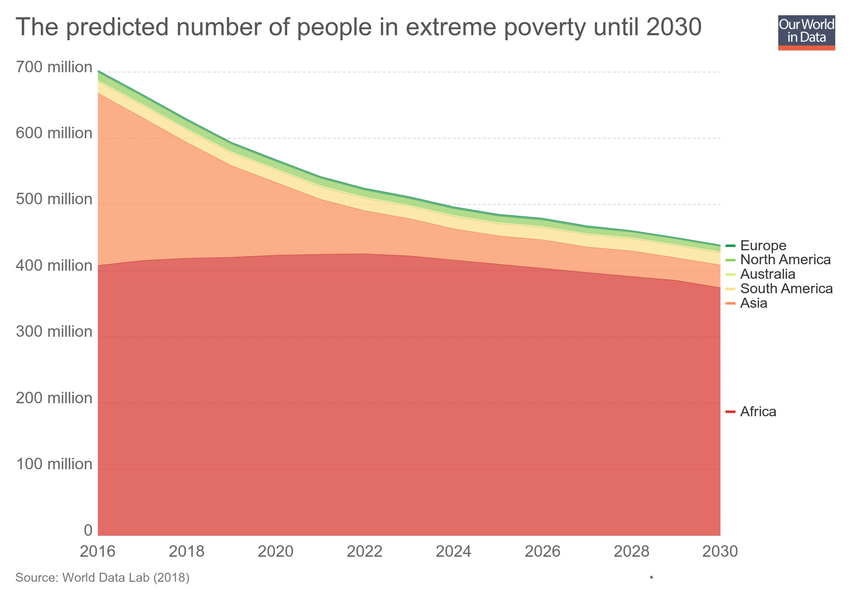
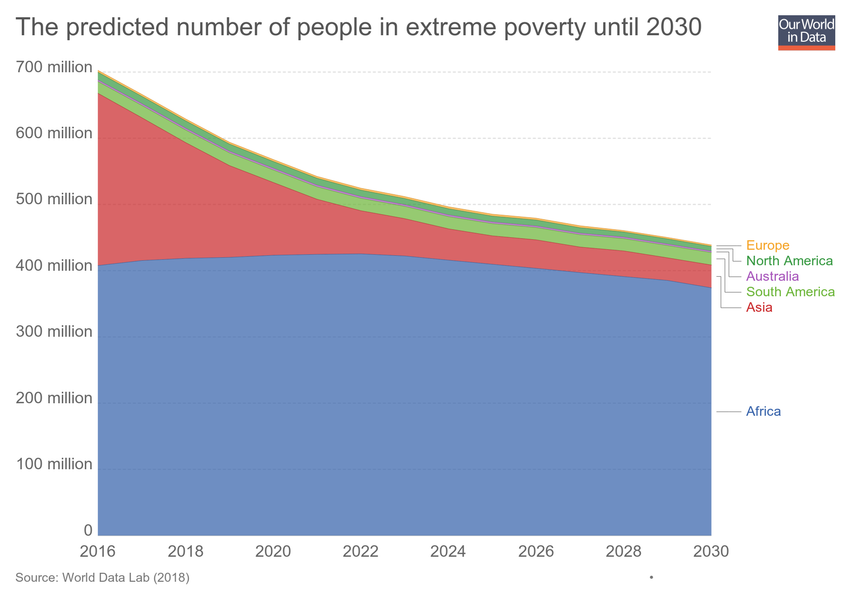
Updating chart the-predicted-number-of-people-in-extreme-poverty-until-2030

diff --git a/grapher/the-predicted-number-of-people-in-extreme-poverty-until-2030.html b/grapher/the-predicted-number-of-people-in-extreme-poverty-until-2030.html
@@ -1,4 +1,4 @@
-<!doctype html><html><head><meta name="viewport" content="width=device-width, initial-scale=1" /><title>The predicted number of people in extreme poverty until 2030 - Our World in Data</title><meta name="description" content="An interactive visualization from Our World in Data." /><link rel="canonical" href="https://ourworldindata.org/grapher/the-predicted-number-of-people-in-extreme-poverty-until-2030" /><meta property="fb:app_id" content="1149943818390250" /><meta property="og:url" content="https://ourworldindata.org/grapher/the-predicted-number-of-people-in-extreme-poverty-until-2030" /><meta property="og:title" content="The predicted number of people in extreme poverty until 2030" /><meta property="og:description" content="An interactive visualization from Our World in Data." /><meta property="og:image" content="https://ourworldindata.org/grapher/exports/the-predicted-number-of-people-in-extreme-poverty-until-2030.png?v=1" /><meta property="og:image:width" content="850" /><meta property="og:image:height" content="600" /><meta property="og:site_name" content="Our World in Data" /><meta name="twitter:card" content="summary_large_image" /><meta name="twitter:site" content="@OurWorldInData" /><meta name="twitter:creator" content="@OurWorldInData" /><meta name="twitter:title" content="The predicted number of people in extreme poverty until 2030" /><meta name="twitter:description" content="An interactive visualization from Our World in Data." /><meta name="twitter:image" content="https://ourworldindata.org/grapher/exports/the-predicted-number-of-people-in-extreme-poverty-until-2030.png?v=1" /><style>
+<!doctype html><html><head><meta name="viewport" content="width=device-width, initial-scale=1" /><title>The predicted number of people in extreme poverty until 2030 - Our World in Data</title><meta name="description" content="An interactive visualization from Our World in Data." /><link rel="canonical" href="https://ourworldindata.org/grapher/the-predicted-number-of-people-in-extreme-poverty-until-2030" /><meta property="fb:app_id" content="1149943818390250" /><meta property="og:url" content="https://ourworldindata.org/grapher/the-predicted-number-of-people-in-extreme-poverty-until-2030" /><meta property="og:title" content="The predicted number of people in extreme poverty until 2030" /><meta property="og:description" content="An interactive visualization from Our World in Data." /><meta property="og:image" content="https://ourworldindata.org/grapher/exports/the-predicted-number-of-people-in-extreme-poverty-until-2030.png?v=2" /><meta property="og:image:width" content="850" /><meta property="og:image:height" content="600" /><meta property="og:site_name" content="Our World in Data" /><meta name="twitter:card" content="summary_large_image" /><meta name="twitter:site" content="@OurWorldInData" /><meta name="twitter:creator" content="@OurWorldInData" /><meta name="twitter:title" content="The predicted number of people in extreme poverty until 2030" /><meta name="twitter:description" content="An interactive visualization from Our World in Data." /><meta name="twitter:image" content="https://ourworldindata.org/grapher/exports/the-predicted-number-of-people-in-extreme-poverty-until-2030.png?v=2" /><style>
         html, body {
             height: 100%;
             margin: 0;
@@ -20,8 +20,8 @@
         }
     </style><noscript><style>
                     figure { display: none !important; }
-                </style></noscript><link rel="stylesheet" href="https://ourworldindata.org/grapher/assets/commons.bundle.dcbbe53805c487d5e57617b10ac73a8a.css" /><link rel="preload" href="/grapher/data/variables/66298.json?v=1" as="fetch" crossorigin /></head><body class="singleChart"><figure data-grapher-src="/grapher/the-predicted-number-of-people-in-extreme-poverty-until-2030"></figure><noscript id="fallback"><img src="/grapher/exports/the-predicted-number-of-people-in-extreme-poverty-until-2030.svg" /><p>Interactive visualization requires JavaScript</p></noscript><script src="https://cdn.polyfill.io/v2/polyfill.min.js?features=es6,fetch"></script><script src="https://ourworldindata.org/grapher/assets/commons.bundle.ec195eba909527e01aa5.js"></script><script src="https://ourworldindata.org/grapher/assets/charts.bundle.ec195eba909527e01aa5.js"></script><script>
-        var jsonConfig = {"id":1865,"map":{"projection":"World","colorSchemeLabels":[],"colorSchemeValues":[],"defaultProjection":"World","colorSchemeMinValue":0,"customNumericColors":[],"customCategoryColors":{},"customCategoryLabels":{},"customHiddenCategories":{}},"tab":"chart","slug":"the-predicted-number-of-people-in-extreme-poverty-until-2030","type":"StackedArea","title":"The predicted number of people in extreme poverty until 2030","xAxis":{"scaleType":"linear"},"yAxis":{"min":0,"scaleType":"linear"},"version":1,"hasMapTab":false,"stackMode":"absolute","dimensions":[{"display":{},"property":"y","variableId":66298}],"hasChartTab":true,"isPublished":true,"lastEditedAt":"2018-01-07T11:43:04.012399+00:00","selectedData":[{"index":0,"entityId":276},{"index":0,"entityId":294},{"index":0,"entityId":23},{"index":0,"entityId":295},{"index":0,"entityId":275},{"index":0,"entityId":273}],"internalNotes":"For Sophie's Commission work","addCountryMode":"disabled","baseColorScheme":"RdYlGn"};
+                </style></noscript><link rel="stylesheet" href="https://ourworldindata.org/grapher/assets/commons.bundle.dcbbe53805c487d5e57617b10ac73a8a.css" /><link rel="preload" href="/grapher/data/variables/66298.json?v=2" as="fetch" crossorigin /></head><body class="singleChart"><figure data-grapher-src="/grapher/the-predicted-number-of-people-in-extreme-poverty-until-2030"></figure><noscript id="fallback"><img src="/grapher/exports/the-predicted-number-of-people-in-extreme-poverty-until-2030.svg" /><p>Interactive visualization requires JavaScript</p></noscript><script src="https://cdn.polyfill.io/v2/polyfill.min.js?features=es6,fetch"></script><script src="https://ourworldindata.org/grapher/assets/commons.bundle.ec195eba909527e01aa5.js"></script><script src="https://ourworldindata.org/grapher/assets/charts.bundle.ec195eba909527e01aa5.js"></script><script>
+        var jsonConfig = {"id":1865,"map":{"projection":"World","colorSchemeLabels":[],"colorSchemeValues":[],"colorSchemeMinValue":0,"customNumericColors":[],"customCategoryColors":{},"customCategoryLabels":{},"customHiddenCategories":{}},"tab":"chart","slug":"the-predicted-number-of-people-in-extreme-poverty-until-2030","type":"StackedArea","title":"The predicted number of people in extreme poverty until 2030","xAxis":{"scaleType":"linear"},"yAxis":{"min":0,"scaleType":"linear"},"version":2,"hasMapTab":false,"stackMode":"absolute","dimensions":[{"display":{},"property":"y","variableId":66298}],"hasChartTab":true,"isPublished":true,"selectedData":[{"color":"#f6a324","index":0,"entityId":276},{"color":"#34983f","index":0,"entityId":294},{"color":"#a652ba","index":0,"entityId":23},{"color":"#6bb537","index":0,"entityId":295},{"color":"#ca2628","index":0,"entityId":275},{"color":"#3360a9","index":0,"entityId":273}],"internalNotes":"For Sophie's Commission work","addCountryMode":"disabled","baseColorScheme":"RdYlGn"};
         var figure = document.getElementsByTagName("figure")[0];
         try {
             window.App = {};
